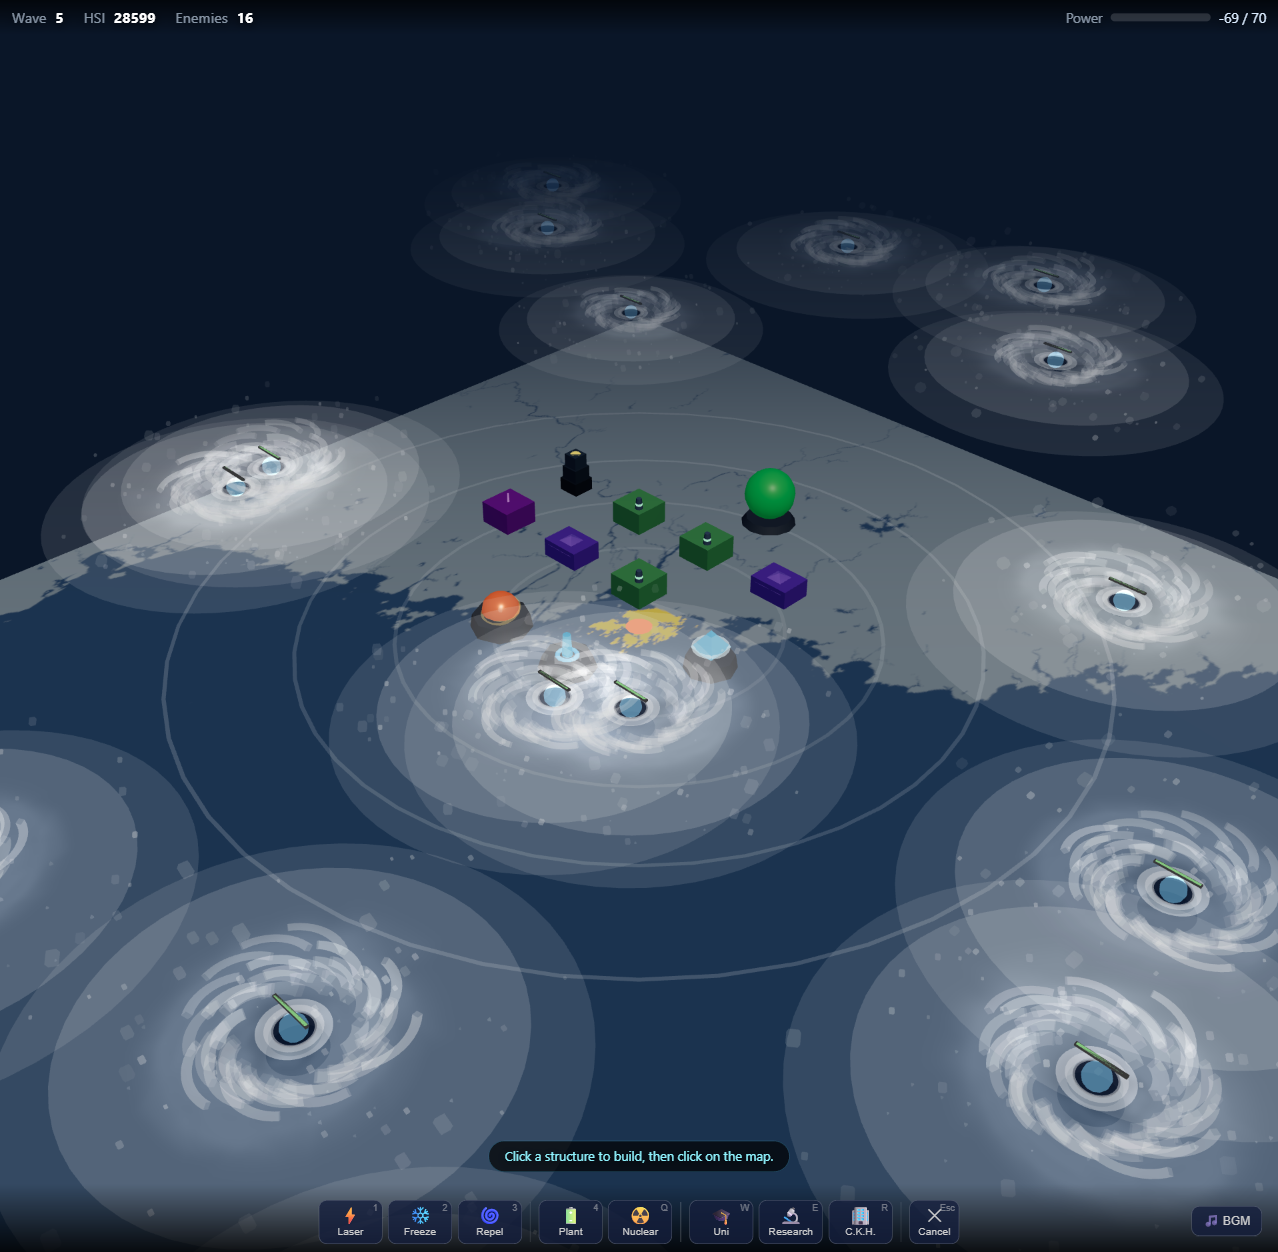
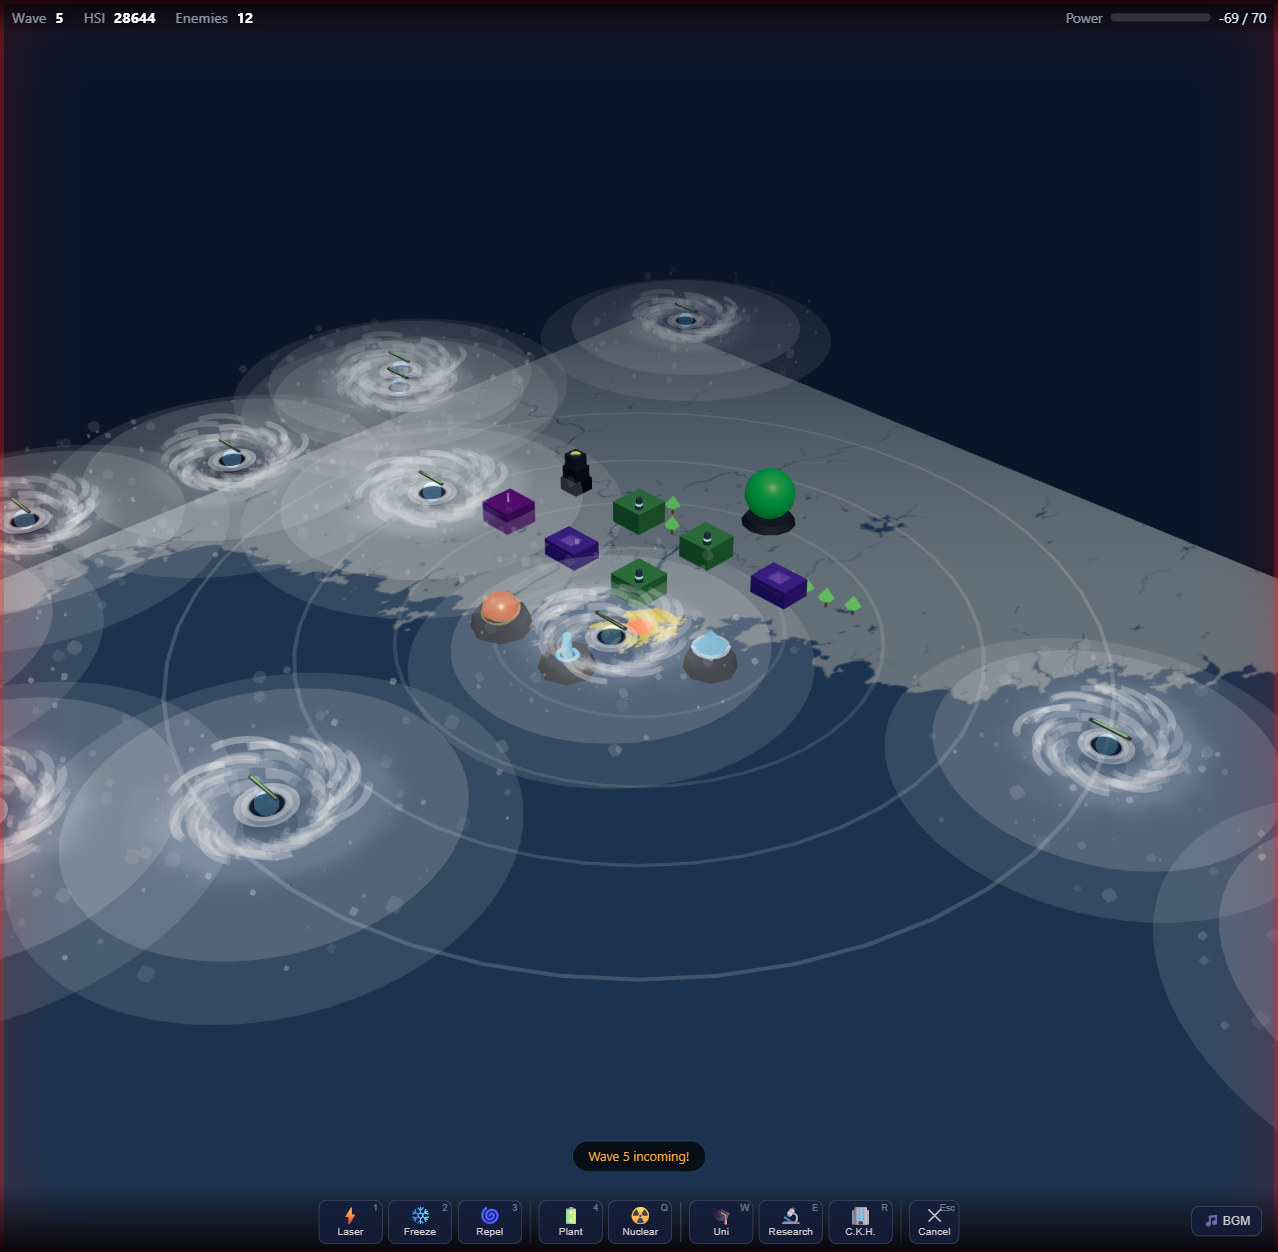
Expand tree coverage, intensify HK hit effect, vary typhoon HP/speed
Trees: use isSeaAt() for full-map land detection instead of grid-cell
bounds. Spawn across entire map area with increased density (22-35).

HK danger: thicker border (12px active, 20px critical), red screen tint
overlay, faster pulse (0.25s critical), deeper box-shadow glow.

Typhoon variety: HP spawns at 40-160% of base for dynamic sizing. Speed
reduced 30% with tighter turns (0.1-0.35) for more purposeful trajectories.
Wobble amplitude slightly increased for visual dynamism.

LLM-Model: deepseek-v4-flash-free

diff --git a/games/typhoon-tycoon/style.css b/games/typhoon-tycoon/style.css
@@ -276,35 +276,58 @@ body {
   opacity: 0.5;
 }
 
-/* HK danger flash — red border when typhoon hits Hong Kong */
+/* HK danger flash — red border + screen tint when typhoon hits Hong Kong */
 #dangerOverlay {
   position: fixed;
   inset: 0;
   pointer-events: none;
   z-index: 9;
-  border: 4px solid transparent;
-  box-shadow: inset 0 0 0 0 rgba(255, 0, 0, 0);
-  transition: box-shadow 0.5s, border-color 0.5s;
+  border: 0 solid transparent;
+}
+
+#dangerTint {
+  position: absolute;
+  inset: 0;
+  background: rgba(255, 0, 0, 0);
+  transition: background 0.3s;
 }
 
 #dangerOverlay.active {
-  border-color: rgba(255, 20, 20, 0.35);
-  box-shadow: inset 0 0 60px 8px rgba(255, 0, 0, 0.15);
-  animation: dangerPulse 0.8s ease-in-out infinite alternate;
+  border: 12px solid rgba(255, 0, 0, 0.35);
+  box-shadow: inset 0 0 80px 12px rgba(255, 0, 0, 0.15);
+  animation: dangerBorderPulse 0.6s ease-in-out infinite alternate;
+}
+#dangerOverlay.active #dangerTint {
+  background: rgba(255, 0, 0, 0.08);
+  animation: dangerTintPulse 0.6s ease-in-out infinite alternate;
 }
 
 #dangerOverlay.critical {
-  border-color: rgba(255, 0, 0, 0.75);
-  box-shadow: inset 0 0 120px 14px rgba(255, 0, 0, 0.4);
-  animation: criticalPulse 0.35s ease-in-out infinite alternate;
+  border: 20px solid rgba(255, 0, 0, 0.7);
+  box-shadow: inset 0 0 160px 24px rgba(255, 0, 0, 0.35);
+  animation: criticalBorderPulse 0.25s ease-in-out infinite alternate;
+}
+#dangerOverlay.critical #dangerTint {
+  background: rgba(255, 0, 0, 0.22);
+  animation: criticalTintPulse 0.25s ease-in-out infinite alternate;
 }
 
-@keyframes dangerPulse {
-  from { box-shadow: inset 0 0 40px 6px rgba(255, 0, 0, 0.1); border-color: rgba(255, 20, 20, 0.25); }
-  to { box-shadow: inset 0 0 80px 10px rgba(255, 0, 0, 0.22); border-color: rgba(255, 20, 20, 0.45); }
+@keyframes dangerBorderPulse {
+  from { border-color: rgba(255, 5, 5, 0.3); box-shadow: inset 0 0 60px 10px rgba(255,0,0,0.10); }
+  to   { border-color: rgba(255, 0, 0, 0.55); box-shadow: inset 0 0 120px 18px rgba(255,0,0,0.22); }
 }
 
-@keyframes criticalPulse {
-  from { box-shadow: inset 0 0 80px 10px rgba(255, 0, 0, 0.3); border-color: rgba(255, 0, 0, 0.6); }
-  to { box-shadow: inset 0 0 160px 20px rgba(255, 0, 0, 0.5); border-color: rgba(255, 0, 0, 0.9); }
+@keyframes dangerTintPulse {
+  from { background: rgba(255, 0, 0, 0.05); }
+  to   { background: rgba(255, 0, 0, 0.14); }
+}
+
+@keyframes criticalBorderPulse {
+  from { border-color: rgba(255, 0, 0, 0.6); box-shadow: inset 0 0 120px 20px rgba(255,0,0,0.3); }
+  to   { border-color: rgba(255, 0, 0, 1.0); box-shadow: inset 0 0 240px 40px rgba(255,0,0,0.55); }
+}
+
+@keyframes criticalTintPulse {
+  from { background: rgba(255, 0, 0, 0.15); }
+  to   { background: rgba(255, 0, 0, 0.35); }
 }

diff --git a/games/typhoon-tycoon/src/systems/scenery.js b/games/typhoon-tycoon/src/systems/scenery.js
@@ -1,7 +1,7 @@
 import * as THREE from 'three';
 import { scene } from '../core/three-setup.js';
 import { CONFIG } from '../core/config.js';
-import { gridCells, useHitareaClassification } from '../world/map.js';
+import { gridCells, useHitareaClassification, isSeaAt, MAP_PLANE_SIZE, MAP_OFFSET_X, MAP_OFFSET_Z } from '../world/map.js';
 import { effects } from './effects.js';
 
 export const scenery = [];
@@ -147,13 +147,12 @@ export function setupScenery() {
     else makeMidrise(wx, wz);
   }
 
-  // Trees — randomly placed on land, not grid-bound
-  const treeCount = 18 + Math.floor(Math.random() * 12); // 18-29 trees
-  for (let attempt = 0; attempt < treeCount * 3 && scenery.filter(s => s.type === 'tree' && s.alive).length < treeCount; attempt++) {
-    const angle = Math.random() * Math.PI * 2;
-    const dist = Math.random() * CONFIG.islandRadius * 0.95;
-    const wx = Math.cos(angle) * dist;
-    const wz = Math.sin(angle) * dist;
+  // Trees — randomly placed on land across the full map, not grid-bound
+  const treeCount = 22 + Math.floor(Math.random() * 14);
+  const mapHalf = MAP_PLANE_SIZE / 2 - 1;
+  for (let attempt = 0; attempt < treeCount * 4 && scenery.filter(s => s.type === 'tree' && s.alive).length < treeCount; attempt++) {
+    const wx = MAP_OFFSET_X + (Math.random() - 0.5) * MAP_PLANE_SIZE * 0.9;
+    const wz = MAP_OFFSET_Z + (Math.random() - 0.5) * MAP_PLANE_SIZE * 0.9;
     if (isValidTreeSpot(wx, wz)) {
       spawnTree(wx, wz, false);
     }
@@ -162,17 +161,20 @@ export function setupScenery() {
 
 /** Check if a world position is valid for a decorative tree */
 function isValidTreeSpot(wx, wz) {
-  // Must be on land
+  // Must be on land (use hitarea-based check, not grid cells, for full island coverage)
+  if (isSeaAt(wx, wz)) return false;
+  // Not too close to existing alive trees or structures
+  for (const s of scenery) {
+    if (s.type === 'tree' && s.alive && Math.hypot(s.worldX - wx, s.worldZ - wz) < 0.4) return false;
+  }
+  // Check no grid cell occupant (player-built structure)
   const cx = Math.round(wx / CONFIG.cellSize);
   const cz = Math.round(wz / CONFIG.cellSize);
   const half = 7;
-  if (Math.abs(cx) > half || Math.abs(cz) > half) return false;
-  const cols = half * 2 + 1;
-  const cell = gridCells[(cx + half) * cols + (cz + half)];
-  if (!cell || !cell.isLand || cell.occupied) return false;
-  // Not too close to existing alive trees
-  for (const s of scenery) {
-    if (s.type === 'tree' && s.alive && Math.hypot(s.worldX - wx, s.worldZ - wz) < 0.35) return false;
+  if (Math.abs(cx) <= half && Math.abs(cz) <= half) {
+    const cols = half * 2 + 1;
+    const cell = gridCells[(cx + half) * cols + (cz + half)];
+    if (cell && cell.occupied) return false;
   }
   return true;
 }

diff --git a/games/typhoon-tycoon/src/systems/enemies.js b/games/typhoon-tycoon/src/systems/enemies.js
@@ -27,7 +27,7 @@ export function spawnEnemy() {
   const z = Math.sin(angle) * r;
 
   const baseHp = CONFIG.enemyBaseHP + state.gameTime * 4;
-  const hp = Math.round(baseHp * (0.8 + Math.random() * 0.4));
+  const hp = Math.round(baseHp * (0.4 + Math.random() * 1.2)); // 40%-160% for size variety
 
   // ===================== 3D TYPHOON (realistic cyclone from above) =====================
   const typhoonGroup = new THREE.Group();
@@ -236,7 +236,7 @@ export function spawnEnemy() {
     x, z,
     hp,
     maxHp: hp,
-    speed: CONFIG.enemyBaseSpeed + state.gameTime / 50,
+    speed: CONFIG.enemyBaseSpeed * 0.7 + state.gameTime / 80, // slower, more deliberate
     moveAngle: Math.atan2(-z, -x),
     isSlowed: 0,
     slowFactor: 0,
@@ -245,10 +245,10 @@ export function spawnEnemy() {
     alive: true,
     passedHK: false,
     clearedHK: false,
-    turnRate: 0.3 + Math.random() * 0.5,
-    wobbleSpeed: 0.5 + Math.random() * 1.5,
+    turnRate: 0.1 + Math.random() * 0.25, // tighter turns, more purposeful
+    wobbleSpeed: 0.4 + Math.random() * 1.2,
     wobblePhase: Math.random() * Math.PI * 2,
-    wobbleAmp: 0.4 + Math.random() * 0.8
+    wobbleAmp: 0.5 + Math.random() * 1.0
   };
 
   enemies.push(enemy);

diff --git a/games/typhoon-tycoon/src/systems/placement.js b/games/typhoon-tycoon/src/systems/placement.js
@@ -313,4 +313,4 @@ document.getElementById('cancelBtn').addEventListener('click', () => {
 
 // ==================== CIRCULAR-SAFE IMPORTS ====================
 import { updateUI } from './ui.js';
-import { renderer } from './three-setup.js';
+import { renderer } from '../core/three-setup.js';

diff --git a/games/typhoon-tycoon/index.html b/games/typhoon-tycoon/index.html
@@ -45,7 +45,9 @@
   </div>
 
   <!-- HK danger flash overlay -->
-  <div id="dangerOverlay" class="hidden"></div>
+  <div id="dangerOverlay" class="hidden">
+    <div id="dangerTint"></div>
+  </div>
 
   <!-- HUD -->
   <div id="hud" class="hidden">

diff --git a/games/typhoon-tycoon/README.md b/games/typhoon-tycoon/README.md
@@ -6,10 +6,10 @@ A 2.5D browser-based tower defense game rebuilt in Three.js, inspired by the ori
 
 ## Screenshots
 
-![Game Menu](assets/screenshot-menu.png)
+![Game Menu](assets/screenshots/menu.png)
 *Start screen with the Hong Kong / South China Sea map and concentric danger zone rings.*
 
-![In-Game Action](assets/screenshot-action.png)
+![In-Game Action](assets/screenshots/action.png)
 *All 8 structure types deployed (Laser/Freeze/Repel Towers, Power/University/Research/Nuclear Plants, CheungKong HQ) defending against realistic 3D typhoons with dark calm eyes, bright eyewalls, asymmetric spiral rainbands, and multi-layer particle systems.*
 
 ## Visual Features
@@ -30,7 +30,27 @@ Each typhoon is a **full 3D Group** modeled after real tropical cyclone satellit
 The storm spins **counterclockwise** (Northern Hemisphere) with **differential rotation**: inner core particles orbit faster than outer wisps. The core glow pulses with storm intensity, and all elements scale and fade with HP loss — a dying typhoon visibly shrinks and dims.
 
 ### Environmental Destruction
-Typhoons destroy decorative scenery (skyscrapers and trees) on contact, leaving particle debris bursts. The contact radius scales with typhoon size (HP), so larger storms clear wider paths of destruction.
+Typhoons destroy decorative scenery (skyscrapers and trees) on contact:
+- **Buildings** explode with a smoke flash and 10 concrete debris chunks that tumble as they fly apart
+- **Trees** are carried into the sky with spin, drifting outward like tornado debris, accompanied by green leaf burst particles
+- The contact radius scales with typhoon size (HP), so larger storms clear wider paths of destruction
+
+### Dynamic Tree Regrowth
+Destroyed trees leave behind spots that regrow after a cooldown period. New trees sprout with an elastic ease-out growth animation, restoring the island's greenery over time.
+
+### HK Hit Warning
+When a typhoon covers Hong Kong, a red pulsating border overlay flashes on screen. The effect intensifies to a fast, deep-red critical pulse when HSI drops below 1500, providing clear visual feedback of impending economic collapse.
+
+### Project Structure
+```
+src/
+  core/         config.js, state.js, three-setup.js           — foundation
+  systems/      audio.js, enemies.js, game.js, effects.js,    — game logic
+                towers.js, placement.js, scenery.js, ui.js,
+                waves.js
+  world/        map.js                                         — terrain
+  main.js                                                      — entry point
+```
 
 ### Curved Trajectories
 Each typhoon follows a **sinusoidal wobble path** instead of a straight line toward center. The wobble amplitude is randomized per enemy and decays as it approaches the island, creating natural-looking spiral approaches like real storm tracks.
